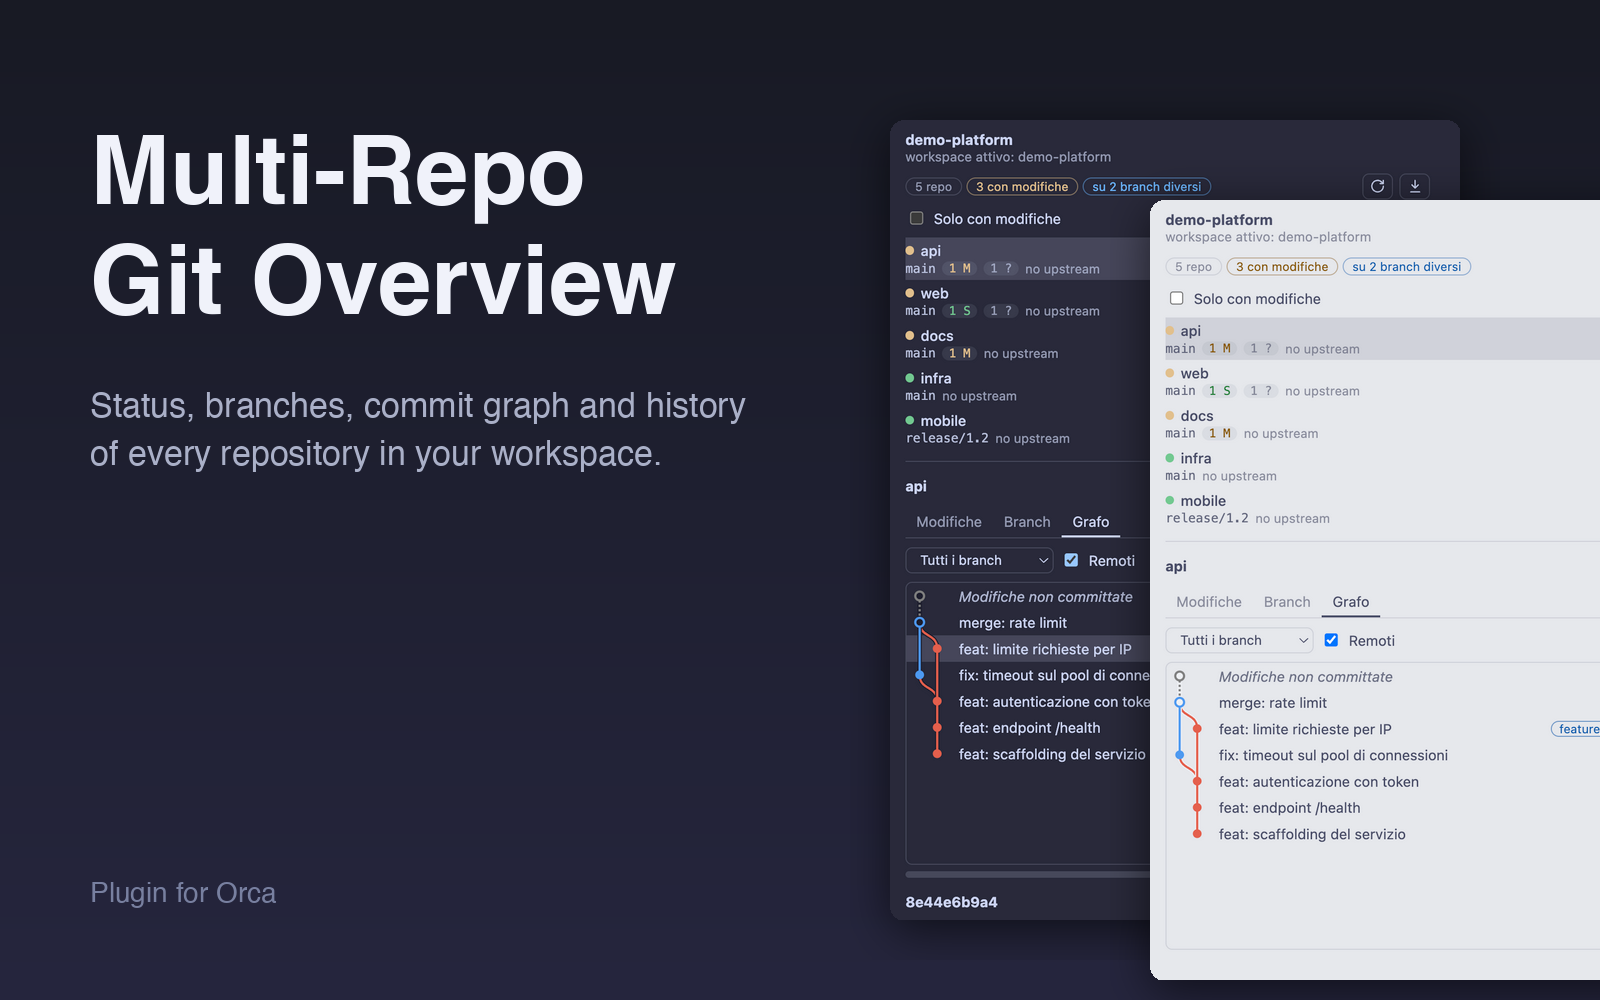
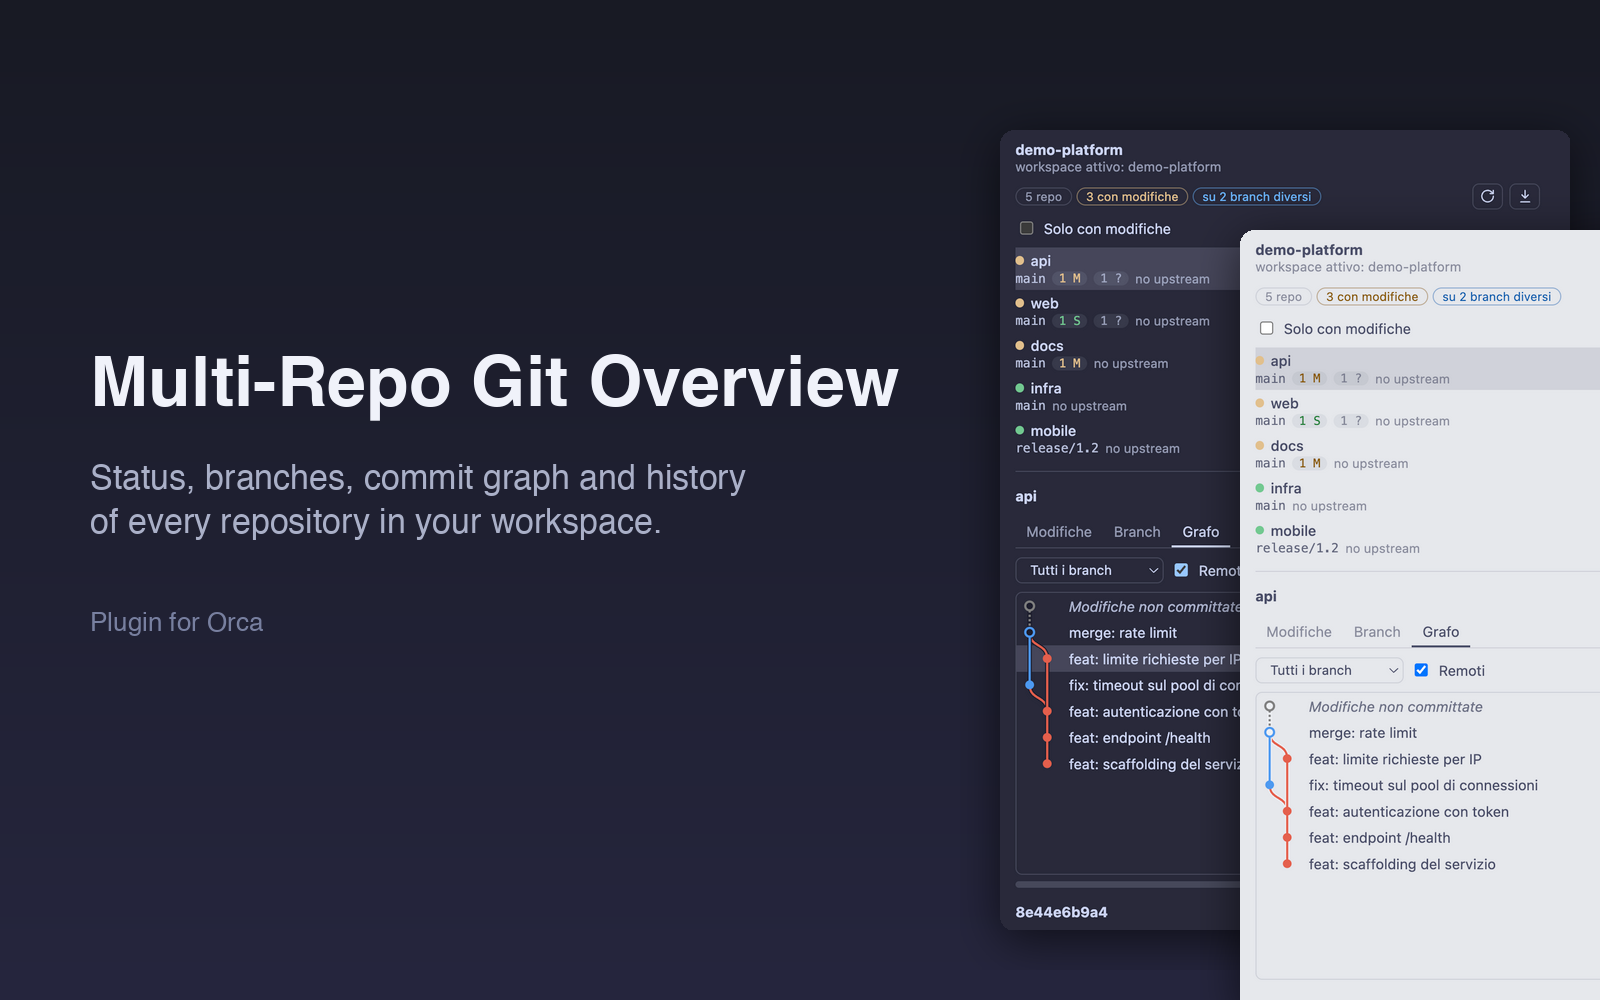
fix: workspace omonimi risolti con i terminali, avviso se ambigui; cover rifatta

diff --git a/src/worker.ts b/src/worker.ts
@@ -15,6 +15,7 @@ import type { OrcaWorkerApi } from 'orca/worker';
 import type { DiffPayload } from '../shared/diff';
 import { makeT, resolveLang, type Translate } from '../shared/i18n';
 import { statusBarState, summarize } from '../shared/summary';
+import { pickWorkspace } from '../shared/workspace';
 import type {
   Branch,
   ChangedFile,
@@ -169,6 +170,32 @@ async function repoNames(root: string): Promise<string[]> {
 type Ws = { id: string; kind: string; name: string; path: string; branch: string | null };
 type WsMatch = { ws: Ws; rel: string };
 
+/**
+ * Cartelle dei terminali del workspace attivo, per distinguere workspace omonimi: gli id di
+ * `readContext` sono gli stessi di `orca terminal list`, che li associa a un `worktreePath`.
+ * Lista vuota se la CLI non c'è o fallisce (si ricade sull'ambiguità dichiarata).
+ */
+async function terminalPaths(terminals: { id: string }[]): Promise<string[]> {
+  if (terminals.length === 0) return [];
+  const bin = await orcaBin();
+  if (!bin) return [];
+  try {
+    const { stdout } = await run(bin, ['terminal', 'list', '--json'], {
+      timeout: 10_000,
+    });
+    const all = (JSON.parse(stdout).result?.terminals ?? []) as {
+      handle?: string;
+      worktreePath?: string;
+    }[];
+    const ids = new Set(terminals.map((t) => t.id));
+    return all
+      .filter((t) => t.handle && ids.has(t.handle) && t.worktreePath)
+      .map((t) => t.worktreePath as string);
+  } catch {
+    return [];
+  }
+}
+
 /** Cartella da scansionare: figli-repo del workspace attivo, altrimenti il setting rootDir. */
 async function resolveRoot(
   orca: OrcaWorkerApi,
@@ -178,15 +205,16 @@ async function resolveRoot(
     const ctx = (await orca.host.call('workspace.readContext', {})) as {
       displayName: string;
       branch: string;
+      terminals: { id: string }[];
     } | null;
     const { workspaces } = (await orca.host.call('workspace.list', {})) as {
       workspaces: Ws[];
     };
-    const ws =
-      ctx &&
-      workspaces.find(
-        (w) => w.name === ctx.displayName && (w.branch ?? '') === (ctx.branch ?? ''),
-      );
+    const pick = ctx
+      ? pickWorkspace(workspaces, ctx, await terminalPaths(ctx.terminals))
+      : ({ kind: 'none' } as const);
+    if (pick.kind === 'ambiguous') return { root: fallback, source: 'ambiguous' };
+    const ws = pick.kind === 'found' ? pick.ws : undefined;
     if (ws) {
       if ((await repoNames(ws.path)).length > 0)
         return { root: ws.path, source: `workspace:${ws.name}` };

diff --git a/shared/workspace.ts b/shared/workspace.ts
@@ -1,0 +1,40 @@
+/** Workspace come lo elenca `workspace.list` (solo i campi usati per riconoscere quello attivo). */
+export interface WsInfo {
+  name: string;
+  path: string;
+  branch: string | null;
+}
+
+export type WsPick<T extends WsInfo> =
+  { kind: 'found'; ws: T } | { kind: 'none' } | { kind: 'ambiguous'; names: string[] };
+
+const inside = (child: string, parent: string): boolean =>
+  child === parent || child.startsWith(parent.replace(/[\\/]+$/, '') + '/');
+
+/**
+ * Riconosce il workspace attivo. `workspace.readContext` dà solo nome e branch: se più workspace
+ * hanno la stessa coppia (es. due `develop` su `develop`) si usano le cartelle dei terminali del
+ * workspace attivo (`terminalPaths`) per sceglierne uno; se non basta, si dichiara l'ambiguità
+ * invece di prenderne uno a caso.
+ */
+export function pickWorkspace<T extends WsInfo>(
+  list: T[],
+  ctx: { displayName: string; branch: string },
+  terminalPaths: string[],
+): WsPick<T> {
+  const same = list.filter(
+    (w) => w.name === ctx.displayName && (w.branch ?? '') === (ctx.branch ?? ''),
+  );
+  if (same.length === 0) return { kind: 'none' };
+  if (same.length === 1) return { kind: 'found', ws: same[0] };
+  const exact = same.filter((w) => terminalPaths.includes(w.path));
+  if (exact.length === 1) return { kind: 'found', ws: exact[0] };
+  // un terminale può stare in una sottocartella: vince il workspace più profondo che lo contiene
+  const containing = same.filter((w) => terminalPaths.some((p) => inside(p, w.path)));
+  if (containing.length > 0) {
+    const deepest = Math.max(...containing.map((w) => w.path.length));
+    const best = containing.filter((w) => w.path.length === deepest);
+    if (best.length === 1) return { kind: 'found', ws: best[0] };
+  }
+  return { kind: 'ambiguous', names: same.map((w) => w.path) };
+}

diff --git a/tests/workspace.test.ts b/tests/workspace.test.ts
@@ -1,0 +1,48 @@
+import assert from 'node:assert/strict';
+import { test } from 'node:test';
+import { pickWorkspace } from '../shared/workspace';
+
+const ws = (name: string, path: string, branch: string | null = 'develop') => ({
+  name,
+  path,
+  branch,
+});
+const ctx = { displayName: 'develop', branch: 'develop' };
+
+test('pickWorkspace: un solo candidato', () => {
+  const list = [ws('develop', '/a/CORE-PDF'), ws('main', '/a/x', 'main')];
+  assert.deepEqual(pickWorkspace(list, ctx, []), { kind: 'found', ws: list[0] });
+});
+
+test('pickWorkspace: nessun candidato', () => {
+  assert.deepEqual(pickWorkspace([ws('main', '/a', 'main')], ctx, []), { kind: 'none' });
+});
+
+test('pickWorkspace: omonimi risolti dal terminale', () => {
+  const list = [ws('develop', '/a/CORE-PDF'), ws('develop', '/a/aily-instruments')];
+  assert.deepEqual(pickWorkspace(list, ctx, ['/a/aily-instruments']), {
+    kind: 'found',
+    ws: list[1],
+  });
+});
+
+test('pickWorkspace: terminale in una sottocartella, vince il più profondo', () => {
+  const list = [ws('develop', '/a'), ws('develop', '/a/b')];
+  assert.deepEqual(pickWorkspace(list, ctx, ['/a/b/src']), {
+    kind: 'found',
+    ws: list[1],
+  });
+});
+
+test('pickWorkspace: omonimi senza terminali = ambiguo', () => {
+  const list = [ws('develop', '/a/CORE-PDF'), ws('develop', '/a/aily-instruments')];
+  assert.deepEqual(pickWorkspace(list, ctx, []), {
+    kind: 'ambiguous',
+    names: ['/a/CORE-PDF', '/a/aily-instruments'],
+  });
+});
+
+test('pickWorkspace: /ab non è dentro /a', () => {
+  const list = [ws('develop', '/a'), ws('develop', '/ab')];
+  assert.deepEqual(pickWorkspace(list, ctx, ['/ab/x']), { kind: 'found', ws: list[1] });
+});

diff --git a/shared/i18n.ts b/shared/i18n.ts
@@ -9,6 +9,8 @@ const en = {
   sourceWorkspace: 'active workspace: {name}',
   sourceParent: 'parent folder of the active workspace: {name}',
   sourceSetting: 'rootDir setting',
+  sourceAmbiguous:
+    'several workspaces share this name and branch: cannot tell which is active',
   // generali
   loading: 'Loading...',
   cancel: 'Cancel',
@@ -123,6 +125,8 @@ const it: Record<Key, string> = {
   sourceWorkspace: 'workspace attivo: {name}',
   sourceParent: 'cartella madre del workspace attivo: {name}',
   sourceSetting: 'setting rootDir',
+  sourceAmbiguous:
+    'più workspace hanno questo nome e branch: non so quale sia quello attivo',
   loading: 'Carico...',
   cancel: 'Annulla',
   errorPrefix: 'errore: {msg}',

diff --git a/panel/main.ts b/panel/main.ts
@@ -112,7 +112,9 @@ const sourceLabel = (s: string): string =>
     ? t('sourceWorkspace', { name: s.slice(10) })
     : s.startsWith('parent:')
       ? t('sourceParent', { name: s.slice(7) })
-      : t('sourceSetting');
+      : s === 'ambiguous'
+        ? t('sourceAmbiguous')
+        : t('sourceSetting');
 
 /** Nome della cartella-gruppo mostrata (ultimo segmento di `root`). */
 const groupName = (): string => S.root.split(/[\\/]/).filter(Boolean).pop() ?? S.root;
